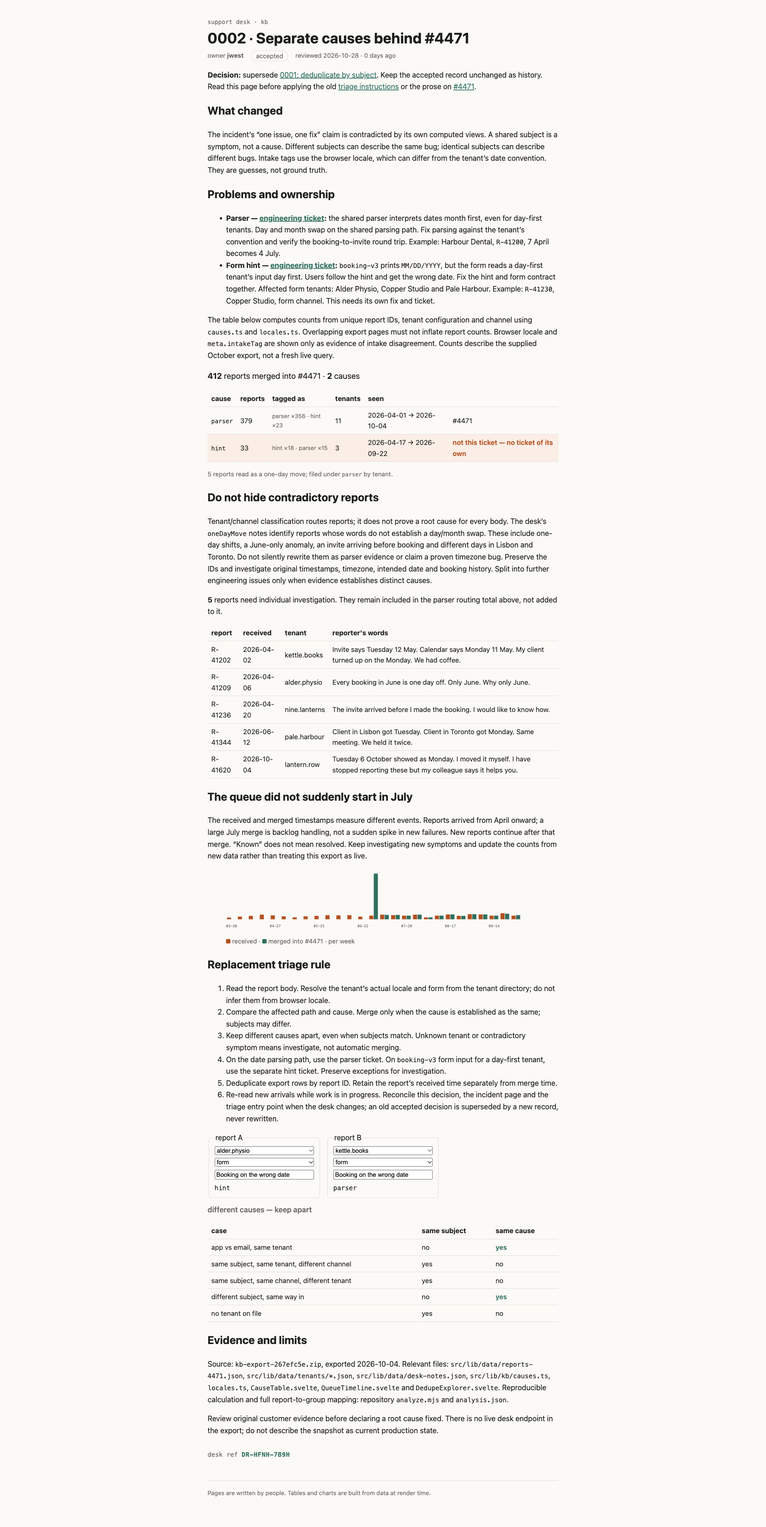
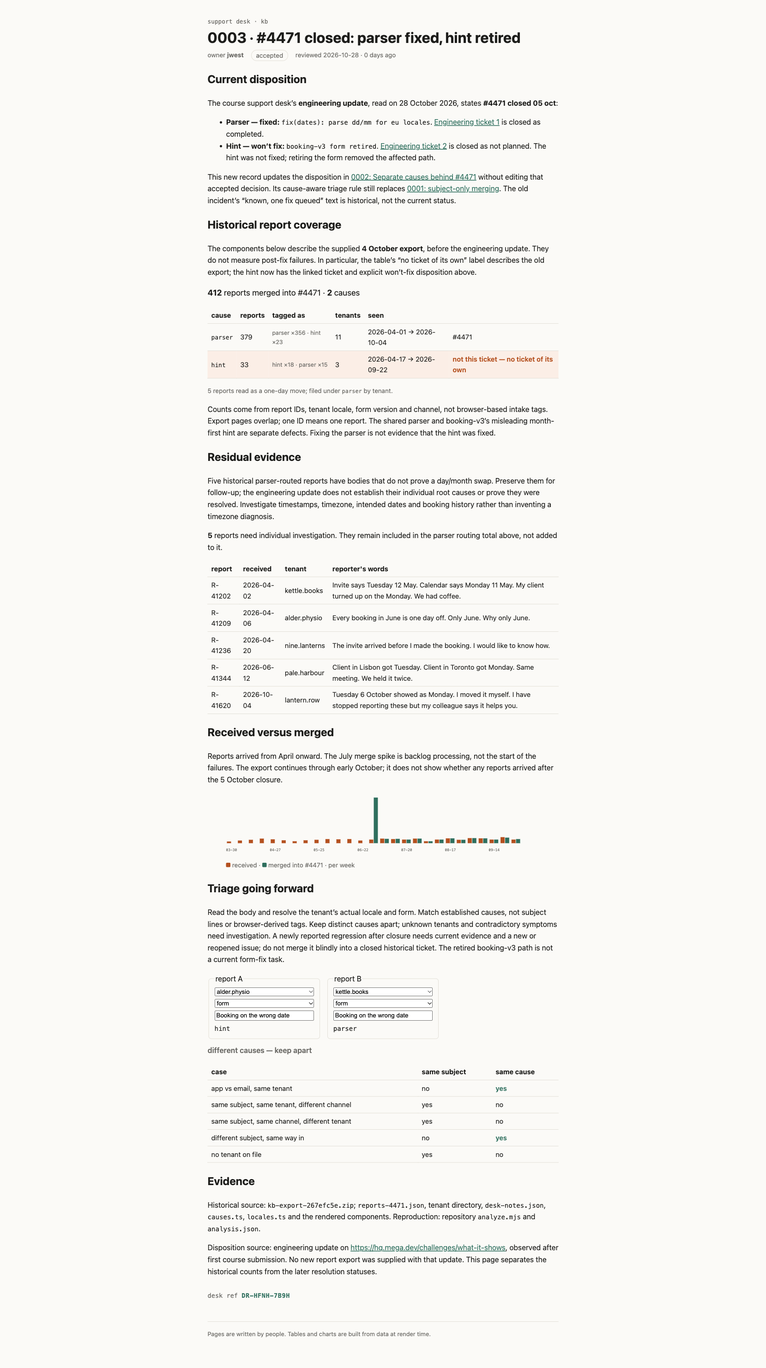
Record parser fix and retired form disposition

diff --git a/rendered.html b/rendered.html
@@ -55,7 +55,7 @@
   aside.warn.s-0sFGAJLDDPob { border-color: var(--warn); background: var(--warn-bg); }
  .s-0sFGAJLDDPob{}</style><style type="text/css">
   .stale.s-aj1amuVO9I7U { color: var(--warn); font-weight: 600; }
- .s-aj1amuVO9I7U{}</style><title>0002 · Separate causes behind #4471 · support kb</title><style>:root { --bg: #fbfaf7; --fg: #1d1d1b; --muted: #6b6a66; --line: #e3e0d8; --accent: #2f6f5e; --warn: #b4501f; --warn-bg: #fbeee6; --note-bg: #eef5f2; --mono: ui-monospace, 'Cascadia Code', Menlo, monospace; }
+ .s-aj1amuVO9I7U{}</style><title>0003 · #4471 closed: parser fixed, hint retired · support kb</title><style>:root { --bg: #fbfaf7; --fg: #1d1d1b; --muted: #6b6a66; --line: #e3e0d8; --accent: #2f6f5e; --warn: #b4501f; --warn-bg: #fbeee6; --note-bg: #eef5f2; --mono: ui-monospace, 'Cascadia Code', Menlo, monospace; }
 @media (prefers-color-scheme: dark) {
   :root { --bg: #171716; --fg: #ecebe6; --muted: #9c9a93; --line: #34332f; --accent: #6fbfa6; --warn: #f0905d; --warn-bg: #3a2418; --note-bg: #1d2c27; }
 }
@@ -101,5 +101,5 @@ aside.s-0sFGAJLDDPob { border-left: 4px solid var(--accent); padding: 0.5rem 1re
 aside.warn.s-0sFGAJLDDPob { border-color: var(--warn); background: var(--warn-bg); }
 .s-0sFGAJLDDPob { }
 .stale.s-aj1amuVO9I7U { color: var(--warn); font-weight: 600; }
-.s-aj1amuVO9I7U { }</style></head><body><div id="app"><!----><!----><div class="kb s-u7Xh9kUH3DOd"><header class="s-u7Xh9kUH3DOd"><a class="crumb s-u7Xh9kUH3DOd" href="/kb">support desk · kb</a> <h1 class="s-u7Xh9kUH3DOd">0002 · Separate causes behind #4471</h1> <p class="meta s-u7Xh9kUH3DOd"><span class="s-u7Xh9kUH3DOd">owner <b class="s-u7Xh9kUH3DOd">jwest</b></span> <span class="status accepted s-u7Xh9kUH3DOd">accepted</span> <span class="s-u7Xh9kUH3DOd">reviewed 2026-10-28 · 0 days ago</span></p></header> <!----> <main class="s-u7Xh9kUH3DOd"><p><strong>Decision:</strong> supersede <a href="/kb/decisions/0001-dedupe-by-subject">0001: deduplicate by subject</a>. Keep the accepted record unchanged as history. Read this page before applying the old <a href="/kb/triage/dedupe">triage instructions</a> or the prose on <a href="/kb/incidents/4471">#4471</a>.</p> <h2>What changed</h2> <p>The incident’s “one issue, one fix” claim is contradicted by its own computed views. A shared subject is a symptom, not a cause. Different subjects can describe the same bug; identical subjects can describe different bugs. Intake tags use the browser locale, which can differ from the tenant’s date convention. They are guesses, not ground truth.</p> <h2>Problems and ownership</h2> <ul><li><strong>Parser — <a href="https://github.com/jwest/mega_dev_challange/issues/1" rel="nofollow">engineering ticket</a>:</strong> the shared parser interprets dates month first, even for day-first tenants. Day and month swap on the shared parsing path. Fix parsing against the tenant’s convention and verify the booking-to-invite round trip. Example: Harbour Dental, <code>R-41200</code>, 7 April becomes 4 July.</li> <li><strong>Form hint — <a href="https://github.com/jwest/mega_dev_challange/issues/2" rel="nofollow">engineering ticket</a>:</strong> <code>booking-v3</code> prints <code>MM/DD/YYYY</code>, but the form reads a day-first tenant’s input day first. Users follow the hint and get the wrong date. Fix the hint and form contract together. Affected form tenants: Alder Physio, Copper Studio and Pale Harbour. Example: <code>R-41230</code>, Copper Studio, form channel. This needs its own fix and ticket.</li></ul> <p>The table below computes counts from unique report IDs, tenant configuration and channel using <code>causes.ts</code> and <code>locales.ts</code>. Overlapping export pages must not inflate report counts. Browser locale and <code>meta.intakeTag</code> are shown only as evidence of intake disagreement. Counts describe the supplied October export, not a fresh live query.</p> <p class="sum s-PHUvFraq7LDZ"><strong class="s-PHUvFraq7LDZ">412</strong> reports merged into #4471 · <strong class="s-PHUvFraq7LDZ">2</strong> causes</p> <table class="s-PHUvFraq7LDZ"><thead class="s-PHUvFraq7LDZ"><tr class="s-PHUvFraq7LDZ"><th class="s-PHUvFraq7LDZ">cause</th><th class="s-PHUvFraq7LDZ">reports</th><th class="s-PHUvFraq7LDZ">tagged as</th><th class="s-PHUvFraq7LDZ">tenants</th><th class="s-PHUvFraq7LDZ">seen</th><th class="s-PHUvFraq7LDZ"></th></tr></thead><tbody class="s-PHUvFraq7LDZ"><tr class="s-PHUvFraq7LDZ"><td class="s-PHUvFraq7LDZ"><code class="s-PHUvFraq7LDZ">parser</code></td><td class="s-PHUvFraq7LDZ">379</td><td class="tags s-PHUvFraq7LDZ">parser ×356 · hint ×23</td><td class="s-PHUvFraq7LDZ">11</td><td class="s-PHUvFraq7LDZ">2026-04-01 → 2026-10-04</td><td class="s-PHUvFraq7LDZ">#4471</td></tr><tr class="s-PHUvFraq7LDZ wrong"><td class="s-PHUvFraq7LDZ"><code class="s-PHUvFraq7LDZ">hint</code></td><td class="s-PHUvFraq7LDZ">33</td><td class="tags s-PHUvFraq7LDZ">hint ×18 · parser ×15</td><td class="s-PHUvFraq7LDZ">3</td><td class="s-PHUvFraq7LDZ">2026-04-17 → 2026-09-22</td><td class="s-PHUvFraq7LDZ">not this ticket — no ticket of its own</td></tr></tbody></table> <!----><p class="note s-PHUvFraq7LDZ">5 reports read as a one-day move; filed under <code class="s-PHUvFraq7LDZ">parser</code> by tenant.</p><!----><!----><!----> <h2>Do not hide contradictory reports</h2> <p>Tenant/channel classification routes reports; it does not prove a root cause for every body. The desk’s <code>oneDayMove</code> notes identify reports whose words do not establish a day/month swap. These include one-day shifts, a June-only anomaly, an invite arriving before booking and different days in Lisbon and Toronto. Do not silently rewrite them as parser evidence or claim a proven timezone bug. Preserve the IDs and investigate original timestamps, timezone, intended date and booking history. Split into further engineering issues only when evidence establishes distinct causes.</p> <p><strong>5</strong> reports need individual investigation. They remain included in the parser routing total above, not added to it.</p> <table><thead><tr><th>report</th><th>received</th><th>tenant</th><th>reporter's words</th></tr></thead><tbody><tr><td>R-41202</td><td>2026-04-02</td><td>kettle.books</td><td>Invite says Tuesday 12 May. Calendar says Monday 11 May. My client turned up on the Monday. We had coffee.</td></tr><tr><td>R-41209</td><td>2026-04-06</td><td>alder.physio</td><td>Every booking in June is one day off. Only June. Why only June.</td></tr><tr><td>R-41236</td><td>2026-04-20</td><td>nine.lanterns</td><td>The invite arrived before I made the booking. I would like to know how.</td></tr><tr><td>R-41344</td><td>2026-06-12</td><td>pale.harbour</td><td>Client in Lisbon got Tuesday. Client in Toronto got Monday. Same meeting. We held it twice.</td></tr><tr><td>R-41620</td><td>2026-10-04</td><td>lantern.row</td><td>Tuesday 6 October showed as Monday. I moved it myself. I have stopped reporting these but my colleague says it helps you.</td></tr></tbody></table><!----> <h2>The queue did not suddenly start in July</h2> <p>The received and merged timestamps measure different events. Reports arrived from April onward; a large July merge is backlog handling, not a sudden spike in new failures. New reports continue after that merge. “Known” does not mean resolved. Keep investigating new symptoms and update the counts from new data rather than treating this export as live.</p> <figure class="s-RT1pCdHQKsd4"><svg role="img" class="s-RT1pCdHQKsd4" viewBox="0 0 648 140" aria-label="reports received and merged into #4471, per week"><rect class="in s-RT1pCdHQKsd4" width="9" x="2" y="106.29629629629629" height="3.7037037037037033"></rect><rect class="merged s-RT1pCdHQKsd4" width="9" x="12" y="110" height="0"></rect><text y="128" class="s-RT1pCdHQKsd4" x="12">03-30</text><!----><rect class="in s-RT1pCdHQKsd4" width="9" x="26" y="104.17989417989418" height="5.82010582010582"></rect><rect class="merged s-RT1pCdHQKsd4" width="9" x="36" y="110" height="0"></rect><!----><rect class="in s-RT1pCdHQKsd4" width="9" x="50" y="102.5925925925926" height="7.4074074074074066"></rect><rect class="merged s-RT1pCdHQKsd4" width="9" x="60" y="110" height="0"></rect><!----><rect class="in s-RT1pCdHQKsd4" width="9" x="74" y="99.94708994708995" height="10.052910052910052"></rect><rect class="merged s-RT1pCdHQKsd4" width="9" x="84" y="110" height="0"></rect><!----><rect class="in s-RT1pCdHQKsd4" width="9" x="98" y="101.53439153439153" height="8.465608465608465"></rect><rect class="merged s-RT1pCdHQKsd4" width="9" x="108" y="110" height="0"></rect><text y="128" class="s-RT1pCdHQKsd4" x="108">04-27</text><!----><rect class="in s-RT1pCdHQKsd4" width="9" x="122" y="103.65079365079364" height="6.349206349206349"></rect><rect class="merged s-RT1pCdHQKsd4" width="9" x="132" y="110" height="0"></rect><!----><rect class="in s-RT1pCdHQKsd4" width="9" x="146" y="105.76719576719577" height="4.232804232804233"></rect><rect class="merged s-RT1pCdHQKsd4" width="9" x="156" y="110" height="0"></rect><!----><rect class="in s-RT1pCdHQKsd4" width="9" x="170" y="103.65079365079364" height="6.349206349206349"></rect><rect class="merged s-RT1pCdHQKsd4" width="9" x="180" y="110" height="0"></rect><!----><rect class="in s-RT1pCdHQKsd4" width="9" x="194" y="102.5925925925926" height="7.4074074074074066"></rect><rect class="merged s-RT1pCdHQKsd4" width="9" x="204" y="110" height="0"></rect><text y="128" class="s-RT1pCdHQKsd4" x="204">05-25</text><!----><rect class="in s-RT1pCdHQKsd4" width="9" x="218" y="101.00529100529101" height="8.994708994708994"></rect><rect class="merged s-RT1pCdHQKsd4" width="9" x="228" y="110" height="0"></rect><!----><rect class="in s-RT1pCdHQKsd4" width="9" x="242" y="101.53439153439153" height="8.465608465608465"></rect><rect class="merged s-RT1pCdHQKsd4" width="9" x="252" y="110" height="0"></rect><!----><rect class="in s-RT1pCdHQKsd4" width="9" x="266" y="101.00529100529101" height="8.994708994708994"></rect><rect class="merged s-RT1pCdHQKsd4" width="9" x="276" y="110" height="0"></rect><!----><rect class="in s-RT1pCdHQKsd4" width="9" x="290" y="104.17989417989418" height="5.82010582010582"></rect><rect class="merged s-RT1pCdHQKsd4" width="9" x="300" y="110" height="0"></rect><text y="128" class="s-RT1pCdHQKsd4" x="300">06-22</text><!----><rect class="in s-RT1pCdHQKsd4" width="9" x="314" y="102.06349206349206" height="7.936507936507936"></rect><rect class="merged s-RT1pCdHQKsd4" width="9" x="324" y="10" height="100"></rect><!----><rect class="in s-RT1pCdHQKsd4" width="9" x="338" y="99.94708994708995" height="10.052910052910052"></rect><rect class="merged s-RT1pCdHQKsd4" width="9" x="348" y="100.47619047619048" height="9.523809523809524"></rect><!----><rect class="in s-RT1pCdHQKsd4" width="9" x="362" y="101.00529100529101" height="8.994708994708994"></rect><rect class="merged s-RT1pCdHQKsd4" width="9" x="372" y="100.47619047619048" height="9.523809523809524"></rect><!----><rect class="in s-RT1pCdHQKsd4" width="9" x="386" y="102.06349206349206" height="7.936507936507936"></rect><rect class="merged s-RT1pCdHQKsd4" width="9" x="396" y="102.06349206349206" height="7.936507936507936"></rect><text y="128" class="s-RT1pCdHQKsd4" x="396">07-20</text><!----><rect class="in s-RT1pCdHQKsd4" width="9" x="410" y="99.94708994708995" height="10.052910052910052"></rect><rect class="merged s-RT1pCdHQKsd4" width="9" x="420" y="99.94708994708995" height="10.052910052910052"></rect><!----><rect class="in s-RT1pCdHQKsd4" width="9" x="434" y="105.76719576719577" height="4.232804232804233"></rect><rect class="merged s-RT1pCdHQKsd4" width="9" x="444" y="105.76719576719577" height="4.232804232804233"></rect><!----><rect class="in s-RT1pCdHQKsd4" width="9" x="458" y="102.06349206349206" height="7.936507936507936"></rect><rect class="merged s-RT1pCdHQKsd4" width="9" x="468" y="102.06349206349206" height="7.936507936507936"></rect><!----><rect class="in s-RT1pCdHQKsd4" width="9" x="482" y="99.41798941798942" height="10.582010582010582"></rect><rect class="merged s-RT1pCdHQKsd4" width="9" x="492" y="99.41798941798942" height="10.582010582010582"></rect><text y="128" class="s-RT1pCdHQKsd4" x="492">08-17</text><!----><rect class="in s-RT1pCdHQKsd4" width="9" x="506" y="102.5925925925926" height="7.4074074074074066"></rect><rect class="merged s-RT1pCdHQKsd4" width="9" x="516" y="102.5925925925926" height="7.4074074074074066"></rect><!----><rect class="in s-RT1pCdHQKsd4" width="9" x="530" y="98.88888888888889" height="11.11111111111111"></rect><rect class="merged s-RT1pCdHQKsd4" width="9" x="540" y="98.88888888888889" height="11.11111111111111"></rect><!----><rect class="in s-RT1pCdHQKsd4" width="9" x="554" y="99.41798941798942" height="10.582010582010582"></rect><rect class="merged s-RT1pCdHQKsd4" width="9" x="564" y="99.41798941798942" height="10.582010582010582"></rect><!----><rect class="in s-RT1pCdHQKsd4" width="9" x="578" y="102.06349206349206" height="7.936507936507936"></rect><rect class="merged s-RT1pCdHQKsd4" width="9" x="588" y="102.06349206349206" height="7.936507936507936"></rect><text y="128" class="s-RT1pCdHQKsd4" x="588">09-14</text><!----><rect class="in s-RT1pCdHQKsd4" width="9" x="602" y="96.77248677248677" height="13.227513227513226"></rect><rect class="merged s-RT1pCdHQKsd4" width="9" x="612" y="97.83068783068784" height="12.16931216931217"></rect><!----><rect class="in s-RT1pCdHQKsd4" width="9" x="626" y="102.06349206349206" height="7.936507936507936"></rect><rect class="merged s-RT1pCdHQKsd4" width="9" x="636" y="101.00529100529101" height="8.994708994708994"></rect><!----></svg> <figcaption class="s-RT1pCdHQKsd4"><span class="key in s-RT1pCdHQKsd4"></span> received · <span class="key merged s-RT1pCdHQKsd4"></span> merged into #4471 · per week</figcaption></figure><!----> <h2>Replacement triage rule</h2> <ol><li>Read the report body. Resolve the tenant’s actual locale and form from the tenant directory; do not infer them from browser locale.</li> <li>Compare the affected path and cause. Merge only when the cause is established as the same; subjects may differ.</li> <li>Keep different causes apart, even when subjects match. Unknown tenant or contradictory symptom means investigate, not automatic merging.</li> <li>On the date parsing path, use the parser ticket. On <code>booking-v3</code> form input for a day-first tenant, use the separate hint ticket. Preserve exceptions for investigation.</li> <li>Deduplicate export rows by report ID. Retain the report’s received time separately from merge time.</li> <li>Re-read new arrivals while work is in progress. Reconcile this decision, the incident page and the triage entry point when the desk changes; an old accepted decision is superseded by a new record, never rewritten.</li></ol> <div class="try s-ua9Lteaech4N"><fieldset class="s-ua9Lteaech4N"><legend class="s-ua9Lteaech4N">report A</legend> <select aria-label="tenant" class="s-ua9Lteaech4N"><option class="s-ua9Lteaech4N">alder.physio</option><option class="s-ua9Lteaech4N">copper.studio</option><option class="s-ua9Lteaech4N">harbour.dental</option><option class="s-ua9Lteaech4N">kettle.books</option><option class="s-ua9Lteaech4N">lantern.row</option><option class="s-ua9Lteaech4N">long.table</option><option class="s-ua9Lteaech4N">morrow.tax</option><option class="s-ua9Lteaech4N">nine.lanterns</option><option class="s-ua9Lteaech4N">pale.harbour</option><option class="s-ua9Lteaech4N">ridge.clinic</option><option class="s-ua9Lteaech4N">stone.and.sons</option></select> <select aria-label="channel" class="s-ua9Lteaech4N"><option class="s-ua9Lteaech4N">app</option><option class="s-ua9Lteaech4N">email</option><option class="s-ua9Lteaech4N">form</option></select> <input aria-label="subject" class="s-ua9Lteaech4N"> <code class="s-ua9Lteaech4N">hint</code></fieldset><fieldset class="s-ua9Lteaech4N"><legend class="s-ua9Lteaech4N">report B</legend> <select aria-label="tenant" class="s-ua9Lteaech4N"><option class="s-ua9Lteaech4N">alder.physio</option><option class="s-ua9Lteaech4N">copper.studio</option><option class="s-ua9Lteaech4N">harbour.dental</option><option class="s-ua9Lteaech4N">kettle.books</option><option class="s-ua9Lteaech4N">lantern.row</option><option class="s-ua9Lteaech4N">long.table</option><option class="s-ua9Lteaech4N">morrow.tax</option><option class="s-ua9Lteaech4N">nine.lanterns</option><option class="s-ua9Lteaech4N">pale.harbour</option><option class="s-ua9Lteaech4N">ridge.clinic</option><option class="s-ua9Lteaech4N">stone.and.sons</option></select> <select aria-label="channel" class="s-ua9Lteaech4N"><option class="s-ua9Lteaech4N">app</option><option class="s-ua9Lteaech4N">email</option><option class="s-ua9Lteaech4N">form</option></select> <input aria-label="subject" class="s-ua9Lteaech4N"> <code class="s-ua9Lteaech4N">parser</code></fieldset><!----> <p class="verdict s-ua9Lteaech4N">different causes — keep apart</p></div> <table class="s-ua9Lteaech4N"><thead class="s-ua9Lteaech4N"><tr class="s-ua9Lteaech4N"><th class="s-ua9Lteaech4N">case</th><th class="s-ua9Lteaech4N">same subject</th><th class="s-ua9Lteaech4N">same cause</th></tr></thead><tbody class="s-ua9Lteaech4N"><tr class="s-ua9Lteaech4N"><td class="s-ua9Lteaech4N">app vs email, same tenant</td><td class="s-ua9Lteaech4N">no</td><td class="s-ua9Lteaech4N dup">yes</td></tr><tr class="s-ua9Lteaech4N"><td class="s-ua9Lteaech4N">same subject, same tenant, different channel</td><td class="s-ua9Lteaech4N">yes</td><td class="s-ua9Lteaech4N">no</td></tr><tr class="s-ua9Lteaech4N"><td class="s-ua9Lteaech4N">same subject, same channel, different tenant</td><td class="s-ua9Lteaech4N">yes</td><td class="s-ua9Lteaech4N">no</td></tr><tr class="s-ua9Lteaech4N"><td class="s-ua9Lteaech4N">different subject, same way in</td><td class="s-ua9Lteaech4N">no</td><td class="s-ua9Lteaech4N dup">yes</td></tr><tr class="s-ua9Lteaech4N"><td class="s-ua9Lteaech4N">no tenant on file</td><td class="s-ua9Lteaech4N">yes</td><td class="s-ua9Lteaech4N">no</td></tr></tbody></table><!----> <h2>Evidence and limits</h2> <p>Source: <code>kb-export-267efc5e.zip</code>, exported 2026-10-04. Relevant files: <code>src/lib/data/reports-4471.json</code>, <code>src/lib/data/tenants/*.json</code>, <code>src/lib/data/desk-notes.json</code>, <code>src/lib/kb/causes.ts</code>, <code>locales.ts</code>, <code>CauseTable.svelte</code>, <code>QueueTimeline.svelte</code> and <code>DedupeExplorer.svelte</code>. Reproducible calculation and full report-to-group mapping: repository <code>analyze.mjs</code> and <code>analysis.json</code>.</p> <p>Review original customer evidence before declaring a root cause fixed. There is no live desk endpoint in the export; do not describe the snapshot as current production state.</p> <!----><p class="stamp s-rZ8url3kVqxe">desk ref <b class="s-rZ8url3kVqxe">DR-HFNH-7B9H</b></p><!----><!----></main> <footer class="s-u7Xh9kUH3DOd">Pages are written by people. Tables and charts are built from data at render time.</footer></div></div>
+.s-aj1amuVO9I7U { }</style></head><body><div id="app"><!----><!----><div class="kb s-u7Xh9kUH3DOd"><header class="s-u7Xh9kUH3DOd"><a class="crumb s-u7Xh9kUH3DOd" href="/kb">support desk · kb</a> <h1 class="s-u7Xh9kUH3DOd">0003 · #4471 closed: parser fixed, hint retired</h1> <p class="meta s-u7Xh9kUH3DOd"><span class="s-u7Xh9kUH3DOd">owner <b class="s-u7Xh9kUH3DOd">jwest</b></span> <span class="status accepted s-u7Xh9kUH3DOd">accepted</span> <span class="s-u7Xh9kUH3DOd">reviewed 2026-10-28 · 0 days ago</span></p></header> <!----> <main class="s-u7Xh9kUH3DOd"><h2>Current disposition</h2> <p>The course support desk’s <strong>engineering update</strong>, read on 28 October 2026, states <strong>#4471 closed 05 oct</strong>:</p> <ul><li><strong>Parser — fixed:</strong> <code>fix(dates): parse dd/mm for eu locales</code>. <a href="https://github.com/jwest/mega_dev_challange/issues/1" rel="nofollow">Engineering ticket 1</a> is closed as completed.</li> <li><strong>Hint — won’t fix:</strong> <code>booking-v3 form retired</code>. <a href="https://github.com/jwest/mega_dev_challange/issues/2" rel="nofollow">Engineering ticket 2</a> is closed as not planned. The hint was not fixed; retiring the form removed the affected path.</li></ul> <p>This new record updates the disposition in <a href="/kb/decisions/0002-dedupe-by-cause">0002: Separate causes behind #4471</a> without editing that accepted decision. Its cause-aware triage rule still replaces <a href="/kb/decisions/0001-dedupe-by-subject">0001: subject-only merging</a>. The old incident’s “known, one fix queued” text is historical, not the current status.</p> <h2>Historical report coverage</h2> <p>The components below describe the supplied <strong>4 October export</strong>, before the engineering update. They do not measure post-fix failures. In particular, the table’s “no ticket of its own” label describes the old export; the hint now has the linked ticket and explicit won’t-fix disposition above.</p> <p class="sum s-PHUvFraq7LDZ"><strong class="s-PHUvFraq7LDZ">412</strong> reports merged into #4471 · <strong class="s-PHUvFraq7LDZ">2</strong> causes</p> <table class="s-PHUvFraq7LDZ"><thead class="s-PHUvFraq7LDZ"><tr class="s-PHUvFraq7LDZ"><th class="s-PHUvFraq7LDZ">cause</th><th class="s-PHUvFraq7LDZ">reports</th><th class="s-PHUvFraq7LDZ">tagged as</th><th class="s-PHUvFraq7LDZ">tenants</th><th class="s-PHUvFraq7LDZ">seen</th><th class="s-PHUvFraq7LDZ"></th></tr></thead><tbody class="s-PHUvFraq7LDZ"><tr class="s-PHUvFraq7LDZ"><td class="s-PHUvFraq7LDZ"><code class="s-PHUvFraq7LDZ">parser</code></td><td class="s-PHUvFraq7LDZ">379</td><td class="tags s-PHUvFraq7LDZ">parser ×356 · hint ×23</td><td class="s-PHUvFraq7LDZ">11</td><td class="s-PHUvFraq7LDZ">2026-04-01 → 2026-10-04</td><td class="s-PHUvFraq7LDZ">#4471</td></tr><tr class="s-PHUvFraq7LDZ wrong"><td class="s-PHUvFraq7LDZ"><code class="s-PHUvFraq7LDZ">hint</code></td><td class="s-PHUvFraq7LDZ">33</td><td class="tags s-PHUvFraq7LDZ">hint ×18 · parser ×15</td><td class="s-PHUvFraq7LDZ">3</td><td class="s-PHUvFraq7LDZ">2026-04-17 → 2026-09-22</td><td class="s-PHUvFraq7LDZ">not this ticket — no ticket of its own</td></tr></tbody></table> <!----><p class="note s-PHUvFraq7LDZ">5 reports read as a one-day move; filed under <code class="s-PHUvFraq7LDZ">parser</code> by tenant.</p><!----><!----><!----> <p>Counts come from report IDs, tenant locale, form version and channel, not browser-based intake tags. Export pages overlap; one ID means one report. The shared parser and booking-v3’s misleading month-first hint are separate defects. Fixing the parser is not evidence that the hint was fixed.</p> <h2>Residual evidence</h2> <p>Five historical parser-routed reports have bodies that do not prove a day/month swap. Preserve them for follow-up; the engineering update does not establish their individual root causes or prove they were resolved. Investigate timestamps, timezone, intended dates and booking history rather than inventing a timezone diagnosis.</p> <p><strong>5</strong> reports need individual investigation. They remain included in the parser routing total above, not added to it.</p> <table><thead><tr><th>report</th><th>received</th><th>tenant</th><th>reporter's words</th></tr></thead><tbody><tr><td>R-41202</td><td>2026-04-02</td><td>kettle.books</td><td>Invite says Tuesday 12 May. Calendar says Monday 11 May. My client turned up on the Monday. We had coffee.</td></tr><tr><td>R-41209</td><td>2026-04-06</td><td>alder.physio</td><td>Every booking in June is one day off. Only June. Why only June.</td></tr><tr><td>R-41236</td><td>2026-04-20</td><td>nine.lanterns</td><td>The invite arrived before I made the booking. I would like to know how.</td></tr><tr><td>R-41344</td><td>2026-06-12</td><td>pale.harbour</td><td>Client in Lisbon got Tuesday. Client in Toronto got Monday. Same meeting. We held it twice.</td></tr><tr><td>R-41620</td><td>2026-10-04</td><td>lantern.row</td><td>Tuesday 6 October showed as Monday. I moved it myself. I have stopped reporting these but my colleague says it helps you.</td></tr></tbody></table><!----> <h2>Received versus merged</h2> <p>Reports arrived from April onward. The July merge spike is backlog processing, not the start of the failures. The export continues through early October; it does not show whether any reports arrived after the 5 October closure.</p> <figure class="s-RT1pCdHQKsd4"><svg role="img" class="s-RT1pCdHQKsd4" viewBox="0 0 648 140" aria-label="reports received and merged into #4471, per week"><rect class="in s-RT1pCdHQKsd4" width="9" x="2" y="106.29629629629629" height="3.7037037037037033"></rect><rect class="merged s-RT1pCdHQKsd4" width="9" x="12" y="110" height="0"></rect><text y="128" class="s-RT1pCdHQKsd4" x="12">03-30</text><!----><rect class="in s-RT1pCdHQKsd4" width="9" x="26" y="104.17989417989418" height="5.82010582010582"></rect><rect class="merged s-RT1pCdHQKsd4" width="9" x="36" y="110" height="0"></rect><!----><rect class="in s-RT1pCdHQKsd4" width="9" x="50" y="102.5925925925926" height="7.4074074074074066"></rect><rect class="merged s-RT1pCdHQKsd4" width="9" x="60" y="110" height="0"></rect><!----><rect class="in s-RT1pCdHQKsd4" width="9" x="74" y="99.94708994708995" height="10.052910052910052"></rect><rect class="merged s-RT1pCdHQKsd4" width="9" x="84" y="110" height="0"></rect><!----><rect class="in s-RT1pCdHQKsd4" width="9" x="98" y="101.53439153439153" height="8.465608465608465"></rect><rect class="merged s-RT1pCdHQKsd4" width="9" x="108" y="110" height="0"></rect><text y="128" class="s-RT1pCdHQKsd4" x="108">04-27</text><!----><rect class="in s-RT1pCdHQKsd4" width="9" x="122" y="103.65079365079364" height="6.349206349206349"></rect><rect class="merged s-RT1pCdHQKsd4" width="9" x="132" y="110" height="0"></rect><!----><rect class="in s-RT1pCdHQKsd4" width="9" x="146" y="105.76719576719577" height="4.232804232804233"></rect><rect class="merged s-RT1pCdHQKsd4" width="9" x="156" y="110" height="0"></rect><!----><rect class="in s-RT1pCdHQKsd4" width="9" x="170" y="103.65079365079364" height="6.349206349206349"></rect><rect class="merged s-RT1pCdHQKsd4" width="9" x="180" y="110" height="0"></rect><!----><rect class="in s-RT1pCdHQKsd4" width="9" x="194" y="102.5925925925926" height="7.4074074074074066"></rect><rect class="merged s-RT1pCdHQKsd4" width="9" x="204" y="110" height="0"></rect><text y="128" class="s-RT1pCdHQKsd4" x="204">05-25</text><!----><rect class="in s-RT1pCdHQKsd4" width="9" x="218" y="101.00529100529101" height="8.994708994708994"></rect><rect class="merged s-RT1pCdHQKsd4" width="9" x="228" y="110" height="0"></rect><!----><rect class="in s-RT1pCdHQKsd4" width="9" x="242" y="101.53439153439153" height="8.465608465608465"></rect><rect class="merged s-RT1pCdHQKsd4" width="9" x="252" y="110" height="0"></rect><!----><rect class="in s-RT1pCdHQKsd4" width="9" x="266" y="101.00529100529101" height="8.994708994708994"></rect><rect class="merged s-RT1pCdHQKsd4" width="9" x="276" y="110" height="0"></rect><!----><rect class="in s-RT1pCdHQKsd4" width="9" x="290" y="104.17989417989418" height="5.82010582010582"></rect><rect class="merged s-RT1pCdHQKsd4" width="9" x="300" y="110" height="0"></rect><text y="128" class="s-RT1pCdHQKsd4" x="300">06-22</text><!----><rect class="in s-RT1pCdHQKsd4" width="9" x="314" y="102.06349206349206" height="7.936507936507936"></rect><rect class="merged s-RT1pCdHQKsd4" width="9" x="324" y="10" height="100"></rect><!----><rect class="in s-RT1pCdHQKsd4" width="9" x="338" y="99.94708994708995" height="10.052910052910052"></rect><rect class="merged s-RT1pCdHQKsd4" width="9" x="348" y="100.47619047619048" height="9.523809523809524"></rect><!----><rect class="in s-RT1pCdHQKsd4" width="9" x="362" y="101.00529100529101" height="8.994708994708994"></rect><rect class="merged s-RT1pCdHQKsd4" width="9" x="372" y="100.47619047619048" height="9.523809523809524"></rect><!----><rect class="in s-RT1pCdHQKsd4" width="9" x="386" y="102.06349206349206" height="7.936507936507936"></rect><rect class="merged s-RT1pCdHQKsd4" width="9" x="396" y="102.06349206349206" height="7.936507936507936"></rect><text y="128" class="s-RT1pCdHQKsd4" x="396">07-20</text><!----><rect class="in s-RT1pCdHQKsd4" width="9" x="410" y="99.94708994708995" height="10.052910052910052"></rect><rect class="merged s-RT1pCdHQKsd4" width="9" x="420" y="99.94708994708995" height="10.052910052910052"></rect><!----><rect class="in s-RT1pCdHQKsd4" width="9" x="434" y="105.76719576719577" height="4.232804232804233"></rect><rect class="merged s-RT1pCdHQKsd4" width="9" x="444" y="105.76719576719577" height="4.232804232804233"></rect><!----><rect class="in s-RT1pCdHQKsd4" width="9" x="458" y="102.06349206349206" height="7.936507936507936"></rect><rect class="merged s-RT1pCdHQKsd4" width="9" x="468" y="102.06349206349206" height="7.936507936507936"></rect><!----><rect class="in s-RT1pCdHQKsd4" width="9" x="482" y="99.41798941798942" height="10.582010582010582"></rect><rect class="merged s-RT1pCdHQKsd4" width="9" x="492" y="99.41798941798942" height="10.582010582010582"></rect><text y="128" class="s-RT1pCdHQKsd4" x="492">08-17</text><!----><rect class="in s-RT1pCdHQKsd4" width="9" x="506" y="102.5925925925926" height="7.4074074074074066"></rect><rect class="merged s-RT1pCdHQKsd4" width="9" x="516" y="102.5925925925926" height="7.4074074074074066"></rect><!----><rect class="in s-RT1pCdHQKsd4" width="9" x="530" y="98.88888888888889" height="11.11111111111111"></rect><rect class="merged s-RT1pCdHQKsd4" width="9" x="540" y="98.88888888888889" height="11.11111111111111"></rect><!----><rect class="in s-RT1pCdHQKsd4" width="9" x="554" y="99.41798941798942" height="10.582010582010582"></rect><rect class="merged s-RT1pCdHQKsd4" width="9" x="564" y="99.41798941798942" height="10.582010582010582"></rect><!----><rect class="in s-RT1pCdHQKsd4" width="9" x="578" y="102.06349206349206" height="7.936507936507936"></rect><rect class="merged s-RT1pCdHQKsd4" width="9" x="588" y="102.06349206349206" height="7.936507936507936"></rect><text y="128" class="s-RT1pCdHQKsd4" x="588">09-14</text><!----><rect class="in s-RT1pCdHQKsd4" width="9" x="602" y="96.77248677248677" height="13.227513227513226"></rect><rect class="merged s-RT1pCdHQKsd4" width="9" x="612" y="97.83068783068784" height="12.16931216931217"></rect><!----><rect class="in s-RT1pCdHQKsd4" width="9" x="626" y="102.06349206349206" height="7.936507936507936"></rect><rect class="merged s-RT1pCdHQKsd4" width="9" x="636" y="101.00529100529101" height="8.994708994708994"></rect><!----></svg> <figcaption class="s-RT1pCdHQKsd4"><span class="key in s-RT1pCdHQKsd4"></span> received · <span class="key merged s-RT1pCdHQKsd4"></span> merged into #4471 · per week</figcaption></figure><!----> <h2>Triage going forward</h2> <p>Read the body and resolve the tenant’s actual locale and form. Match established causes, not subject lines or browser-derived tags. Keep distinct causes apart; unknown tenants and contradictory symptoms need investigation. A newly reported regression after closure needs current evidence and a new or reopened issue; do not merge it blindly into a closed historical ticket. The retired booking-v3 path is not a current form-fix task.</p> <div class="try s-ua9Lteaech4N"><fieldset class="s-ua9Lteaech4N"><legend class="s-ua9Lteaech4N">report A</legend> <select aria-label="tenant" class="s-ua9Lteaech4N"><option class="s-ua9Lteaech4N">alder.physio</option><option class="s-ua9Lteaech4N">copper.studio</option><option class="s-ua9Lteaech4N">harbour.dental</option><option class="s-ua9Lteaech4N">kettle.books</option><option class="s-ua9Lteaech4N">lantern.row</option><option class="s-ua9Lteaech4N">long.table</option><option class="s-ua9Lteaech4N">morrow.tax</option><option class="s-ua9Lteaech4N">nine.lanterns</option><option class="s-ua9Lteaech4N">pale.harbour</option><option class="s-ua9Lteaech4N">ridge.clinic</option><option class="s-ua9Lteaech4N">stone.and.sons</option></select> <select aria-label="channel" class="s-ua9Lteaech4N"><option class="s-ua9Lteaech4N">app</option><option class="s-ua9Lteaech4N">email</option><option class="s-ua9Lteaech4N">form</option></select> <input aria-label="subject" class="s-ua9Lteaech4N"> <code class="s-ua9Lteaech4N">hint</code></fieldset><fieldset class="s-ua9Lteaech4N"><legend class="s-ua9Lteaech4N">report B</legend> <select aria-label="tenant" class="s-ua9Lteaech4N"><option class="s-ua9Lteaech4N">alder.physio</option><option class="s-ua9Lteaech4N">copper.studio</option><option class="s-ua9Lteaech4N">harbour.dental</option><option class="s-ua9Lteaech4N">kettle.books</option><option class="s-ua9Lteaech4N">lantern.row</option><option class="s-ua9Lteaech4N">long.table</option><option class="s-ua9Lteaech4N">morrow.tax</option><option class="s-ua9Lteaech4N">nine.lanterns</option><option class="s-ua9Lteaech4N">pale.harbour</option><option class="s-ua9Lteaech4N">ridge.clinic</option><option class="s-ua9Lteaech4N">stone.and.sons</option></select> <select aria-label="channel" class="s-ua9Lteaech4N"><option class="s-ua9Lteaech4N">app</option><option class="s-ua9Lteaech4N">email</option><option class="s-ua9Lteaech4N">form</option></select> <input aria-label="subject" class="s-ua9Lteaech4N"> <code class="s-ua9Lteaech4N">parser</code></fieldset><!----> <p class="verdict s-ua9Lteaech4N">different causes — keep apart</p></div> <table class="s-ua9Lteaech4N"><thead class="s-ua9Lteaech4N"><tr class="s-ua9Lteaech4N"><th class="s-ua9Lteaech4N">case</th><th class="s-ua9Lteaech4N">same subject</th><th class="s-ua9Lteaech4N">same cause</th></tr></thead><tbody class="s-ua9Lteaech4N"><tr class="s-ua9Lteaech4N"><td class="s-ua9Lteaech4N">app vs email, same tenant</td><td class="s-ua9Lteaech4N">no</td><td class="s-ua9Lteaech4N dup">yes</td></tr><tr class="s-ua9Lteaech4N"><td class="s-ua9Lteaech4N">same subject, same tenant, different channel</td><td class="s-ua9Lteaech4N">yes</td><td class="s-ua9Lteaech4N">no</td></tr><tr class="s-ua9Lteaech4N"><td class="s-ua9Lteaech4N">same subject, same channel, different tenant</td><td class="s-ua9Lteaech4N">yes</td><td class="s-ua9Lteaech4N">no</td></tr><tr class="s-ua9Lteaech4N"><td class="s-ua9Lteaech4N">different subject, same way in</td><td class="s-ua9Lteaech4N">no</td><td class="s-ua9Lteaech4N dup">yes</td></tr><tr class="s-ua9Lteaech4N"><td class="s-ua9Lteaech4N">no tenant on file</td><td class="s-ua9Lteaech4N">yes</td><td class="s-ua9Lteaech4N">no</td></tr></tbody></table><!----> <h2>Evidence</h2> <p>Historical source: <code>kb-export-267efc5e.zip</code>; <code>reports-4471.json</code>, tenant directory, <code>desk-notes.json</code>, <code>causes.ts</code>, <code>locales.ts</code> and the rendered components. Reproduction: repository <code>analyze.mjs</code> and <code>analysis.json</code>.</p> <p>Disposition source: engineering update on <a href="https://hq.mega.dev/challenges/what-it-shows" rel="nofollow">https://hq.mega.dev/challenges/what-it-shows</a>, observed after first course submission. No new report export was supplied with that update. This page separates the historical counts from the later resolution statuses.</p> <!----><p class="stamp s-rZ8url3kVqxe">desk ref <b class="s-rZ8url3kVqxe">DR-HFNH-7B9H</b></p><!----><!----></main> <footer class="s-u7Xh9kUH3DOd">Pages are written by people. Tables and charts are built from data at render time.</footer></div></div>
 </body></html>

diff --git a/README.md b/README.md
@@ -6,7 +6,8 @@ Public delivery for the MEGA.dev support desk exercise. Source: `kb-export-267ef
 
 - [Parser issue — 379 reports](https://github.com/jwest/mega_dev_challange/issues/1).
 - [booking-v3 hint issue — 33 reports](https://github.com/jwest/mega_dev_challange/issues/2).
-- Signed KB page: [`src/routes/kb/decisions/0002-dedupe-by-cause/+page.svx`](src/routes/kb/decisions/0002-dedupe-by-cause/+page.svx).
+- Current signed KB page: [`src/routes/kb/decisions/0003-4471-disposition/+page.svx`](src/routes/kb/decisions/0003-4471-disposition/+page.svx).
+- Initial accepted triage decision, retained as history: [`0002`](src/routes/kb/decisions/0002-dedupe-by-cause/+page.svx).
 - Rendered page, including actual component output: [`rendered.html`](rendered.html). Download/open this file in a browser to read the captured page. It contains the computed cause table, exception table, SVG timeline, deduplication cases and generated desk ref.
 - Screenshot: [`rendered.png`](rendered.png).
 - Reproducible calculations: [`analyze.mjs`](analyze.mjs), full report-to-cause mapping and weekly totals in [`analysis.json`](analysis.json).
@@ -22,7 +23,7 @@ npm run build
 npm run dev
 ```
 
-Open `/kb/decisions/0002-dedupe-by-cause` on the local server. The `.svx` is compiled with mdsvex and Svelte 5; it uses the original exported components and logic. The build is a client application; `rendered.html` is a captured, fully rendered standalone HTML artifact, not an empty application shell.
+Open `/kb/decisions/0003-4471-disposition` on the local server. The `.svx` is compiled with mdsvex and Svelte 5; it uses the original exported components and logic. The build is a client application; `rendered.html` is a captured, fully rendered standalone HTML artifact, not an empty application shell.
 
 ## Findings and boundaries
 
@@ -34,4 +35,8 @@ The July merge spike is delayed backlog processing, not the beginning of reporte
 
 The new decision supersedes accepted decision 0001 without rewriting history. It replaces subject-only merging with cause-aware triage. The exported `src/` files remain as supplied, except for the addition of the new decision and the `ReportExceptions` component. Countable values are computed by components, rather than hardcoded into KB prose.
 
-This delivery is an October export snapshot. No live desk endpoint is included in the export. Course acceptance is tracked in the parent MEGA.dev workspace; publishing this repository alone does not establish a solve.
+## Engineering update
+
+After the first submission, the course accepted both tickets and published an update: **#4471 closed 05 Oct**. Parser: **fixed**, `fix(dates): parse dd/mm for eu locales`. Hint: **won't fix**, `booking-v3 form retired`. Ticket 1 is closed completed; ticket 2 is closed not planned. New accepted decision 0003 preserves decision 0002 and distinguishes these outcomes. The historical table still reflects the pre-update export and is labelled accordingly.
+
+This delivery includes the October export snapshot plus the later course engineering update. No live report endpoint is included in the export. Course acceptance is tracked in the parent MEGA.dev workspace; publishing this repository alone does not establish a solve.
